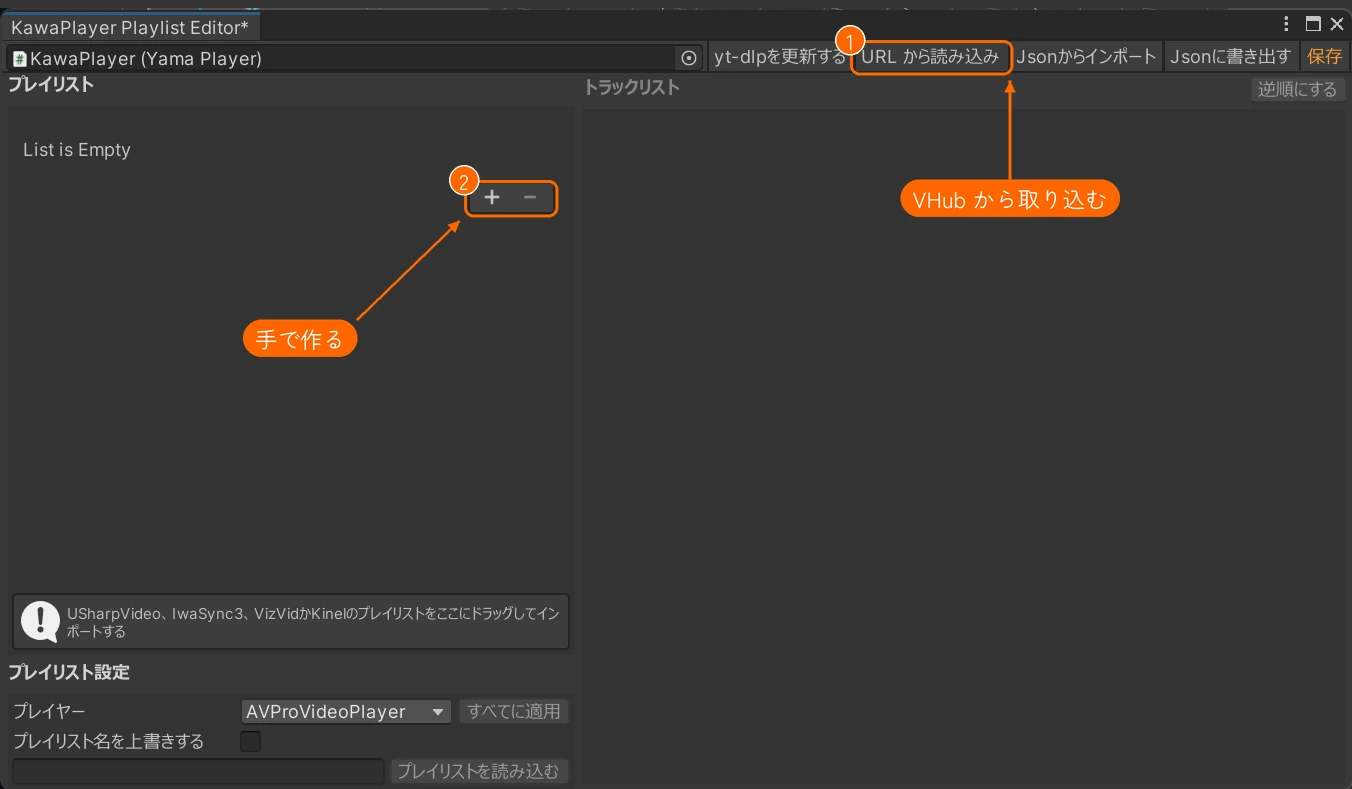
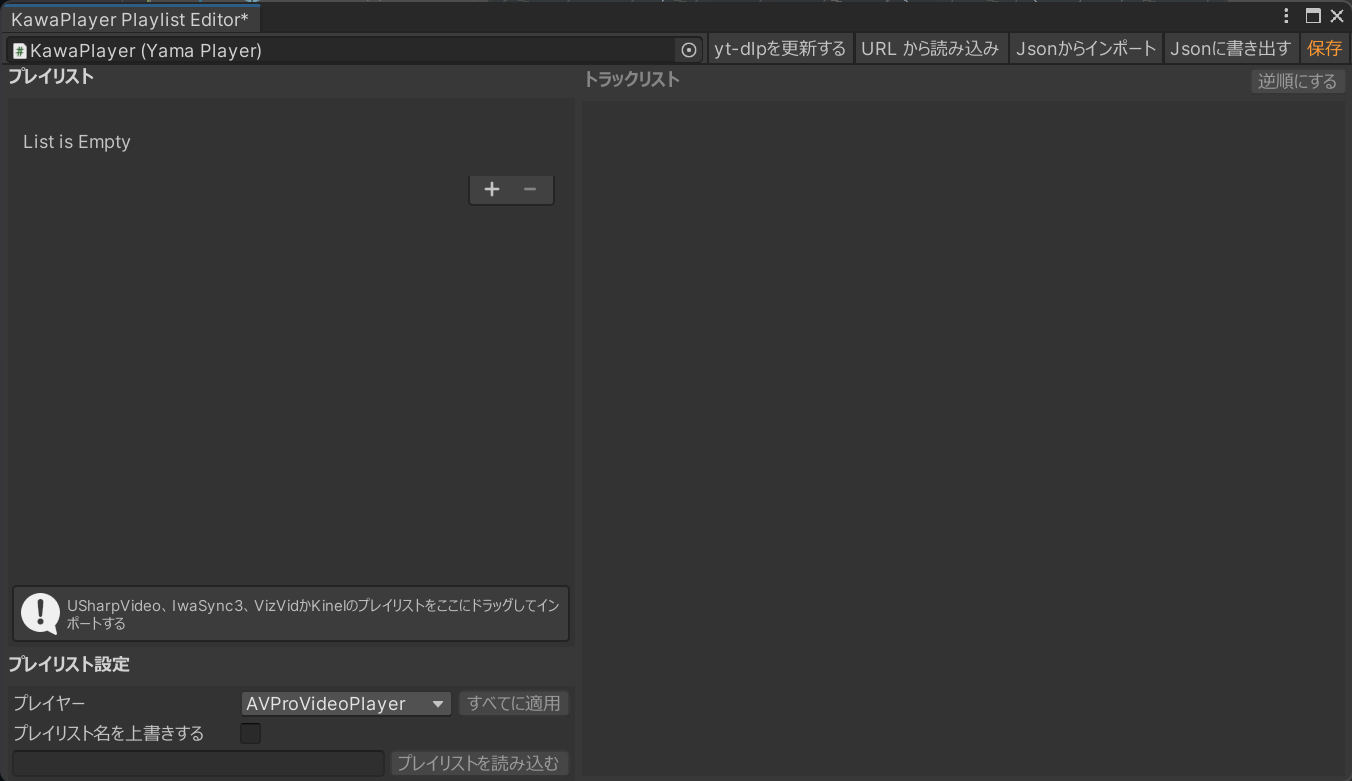
docs(guide): show making a playlist by hand, and leave the first editor picture unmarked
Making a playlist by hand now has the user's picture of the editor with
one playlist and one song added: the playlist +, the track +, the
song's player, title and URL fields, and Save are marked (1) to (4),
and the steps name them. A new playlist is called New Playlist, so the
first step says to rename it with Edit.

The picture at the top of the editor section no longer marks anything,
as the user asked; it only shows the editor. Its (1), the toolbar's
import button, moved to the VHub import picture, which now marks all
four of its steps.

Claude-Session: https://claude.ai/code/session_014UgSPcxLDoFJhLM3Stmszr

diff --git a/docs/guide/images/annotate.py b/docs/guide/images/annotate.py
@@ -89,13 +89,18 @@ MARKS = {
     "unity/inspector-version": dict(src="unity/inspector", crop=(3, 1213, 841, 1391), scale=0.72, pad=dict(left=28), marks=[
         dict(n=6, badge=(-11, 1236)),
     ]),
-    "unity/playlist-editor": dict(scale=0.8, pad=dict(top=8), marks=[
-        dict(box=(855, 37, 1008, 62), n=1, cap="VHub から取り込む", at=(1010, 190)),
-        dict(box=(469, 177, 553, 204), n=2, cap="手で作る", at=(300, 330)),
-    ]),
+    # The first look at the editor, with nothing to press yet.
+    "unity/playlist-editor": dict(scale=0.8, marks=[]),
     "unity/playlist-import": dict(scale=0.8, pad=dict(top=8), marks=[
+        dict(box=(855, 37, 1008, 62), n=1),
         dict(box=(197, 76, 1178, 101), n=2, cap="VHub の共有 URL を貼る", at=(960, 320)),
         dict(box=(1186, 76, 1339, 101), n=3),
+        dict(box=(1302, 37, 1346, 62), n=4),
+    ]),
+    "unity/playlist-manual": dict(scale=0.8, pad=dict(top=8), marks=[
+        dict(box=(470, 288, 510, 315), n=1, cap="プレイリストを足す", at=(300, 380)),
+        dict(box=(1241, 320, 1283, 347), n=2, cap="曲を足す", at=(1080, 420)),
+        dict(box=(592, 222, 1333, 310), n=3),
         dict(box=(1302, 37, 1346, 62), n=4),
     ]),
     "unity/module-manager": dict(scale=0.72, marks=[

diff --git a/docs/guide/playlists.md b/docs/guide/playlists.md
@@ -13,7 +13,7 @@ KawaPlayer のプレイリストは、2 つの方法で用意できます。
 
 インスペクターの **プレイリストを編集する** を押すと、プレイリストエディターが開きます。左に **プレイリスト** の一覧、右に選んだプレイリストの曲（**トラックリスト**）が並びます。作ったり変えたりしたら、右上の **保存** を押してください。保存するまで、シーンには入りません。
 
-![プレイリストエディター。① 上の URL から読み込みと、② プレイリストの一覧の ＋ に印がある](images/unity/playlist-editor.webp)
+![プレイリストエディター。上にボタンが並び、左にプレイリストの一覧、右にトラックリスト、左下にプレイリスト設定がある](images/unity/playlist-editor.webp)
 
 ### プレイリストエディターの各部
 
@@ -61,7 +61,7 @@ KawaPlayer のプレイリストは、2 つの方法で用意できます。
 3. 右の **URL から読み込み**（③）を押すと、左の **プレイリスト** に入ります。
 4. 右上の **保存**（④）を押します。
 
-![URL から読み込みを開いたプレイリストエディター。② VHub の共有 URL を入れる欄、③ 右の URL から読み込み、④ 保存 に印がある](images/unity/playlist-import.webp)
+![URL から読み込みを開いたプレイリストエディター。① 上の URL から読み込み、② VHub の共有 URL を入れる欄、③ 右の URL から読み込み、④ 保存 に印がある](images/unity/playlist-import.webp)
 
 - **取り込みのしくみ:** 曲名と並び順は、ワールドをビルドしたときに焼き込まれます。曲の URL は VHub を通るので、再生には VHub が要ります。聞く人は、VRChat の設定で **Allow Untrusted URLs** をオンにしておく必要があります（[オンにする手順](quickstart.md#6-allow-untrusted-urls-をオンにする)）。
 - **取り込み直す:** 同じ URL をもう一度取り込むと、今のプレイリストを更新するか、新しいプレイリストとして足すかを聞かれます。
@@ -69,10 +69,12 @@ KawaPlayer のプレイリストは、2 つの方法で用意できます。
 
 ### 手で作る
 
-1. 左の **プレイリスト** の **＋**（②）で、プレイリストを足します。
-2. 足したプレイリストを選び、右の **トラックリスト** の **＋** で曲を足します。
-3. 曲ごとに、**プレイヤー**（動画プレイヤー）、**タイトル**、**Url** を入れます。
-4. 右上の **保存** を押します。
+1. 左の **プレイリスト** の **＋**（①）で、プレイリストを足します。**新規プレイリスト** という名前で足されるので、名前は **編集** で変えます。
+2. 足したプレイリストを選び、右の **トラックリスト** の **＋**（②）で曲を足します。
+3. 曲ごとに、**プレイヤー**（動画プレイヤー）、**タイトル**、**Url** を入れます（③）。
+4. 右上の **保存**（④）を押します。
+
+![プレイリストを 1 つ足し、曲を 1 つ足したプレイリストエディター。① プレイリストの ＋、② トラックリストの ＋、③ 曲のプレイヤー・タイトル・Url の欄、④ 保存 に印がある](images/unity/playlist-manual.webp)
 
 YouTube のプレイリストからまとめて入れるときは、2. と 3. の代わりに、左下の **プレイリスト設定** の欄に YouTube のプレイリストの URL を入れて、**プレイリストを読み込む** を押します。
 
